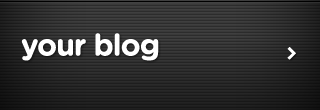
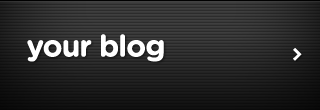
Add blog label to "your blog" button.

Changed region(s): [[0.0625, 0.3, 0.5312, 0.5727], [0.0, 0.0, 1.0, 0.0273], [0.875, 0.4364, 0.9375, 0.5455]]

diff --git a/src/Resources/meme/ui/home.js b/src/Resources/meme/ui/home.js
@@ -100,13 +100,14 @@
 		});
 		textBarView.add(usernameLabel);
 		
-		var signOutLabel = Ti.UI.createLabel({
+		var signOutLabel = Ti.UI.createButton({
 			top: 0,
 			right: 9,
 			width: 42,
 			color: '#9F1392',
 			font: { fontSize: 11, fontFamily: 'Helvetica' },
-			text: 'sign out'
+			title: 'sign out',
+			style: Titanium.UI.iPhone.SystemButtonStyle.PLAIN
 		});
 		signOutLabel.addEventListener('click', function(e) {
 			meme.auth.oadapter.logout('meme', function() {
@@ -160,7 +161,7 @@
 		
 		var blogUrlLabel = Ti.UI.createLabel({
 			top: 36,
-			left: 22,
+			left: 26,
 			color: 'white',
 			font: { fontSize: 14, fontFamily:'Gotham Rounded', fontWeight: 'Light' }
 		});
